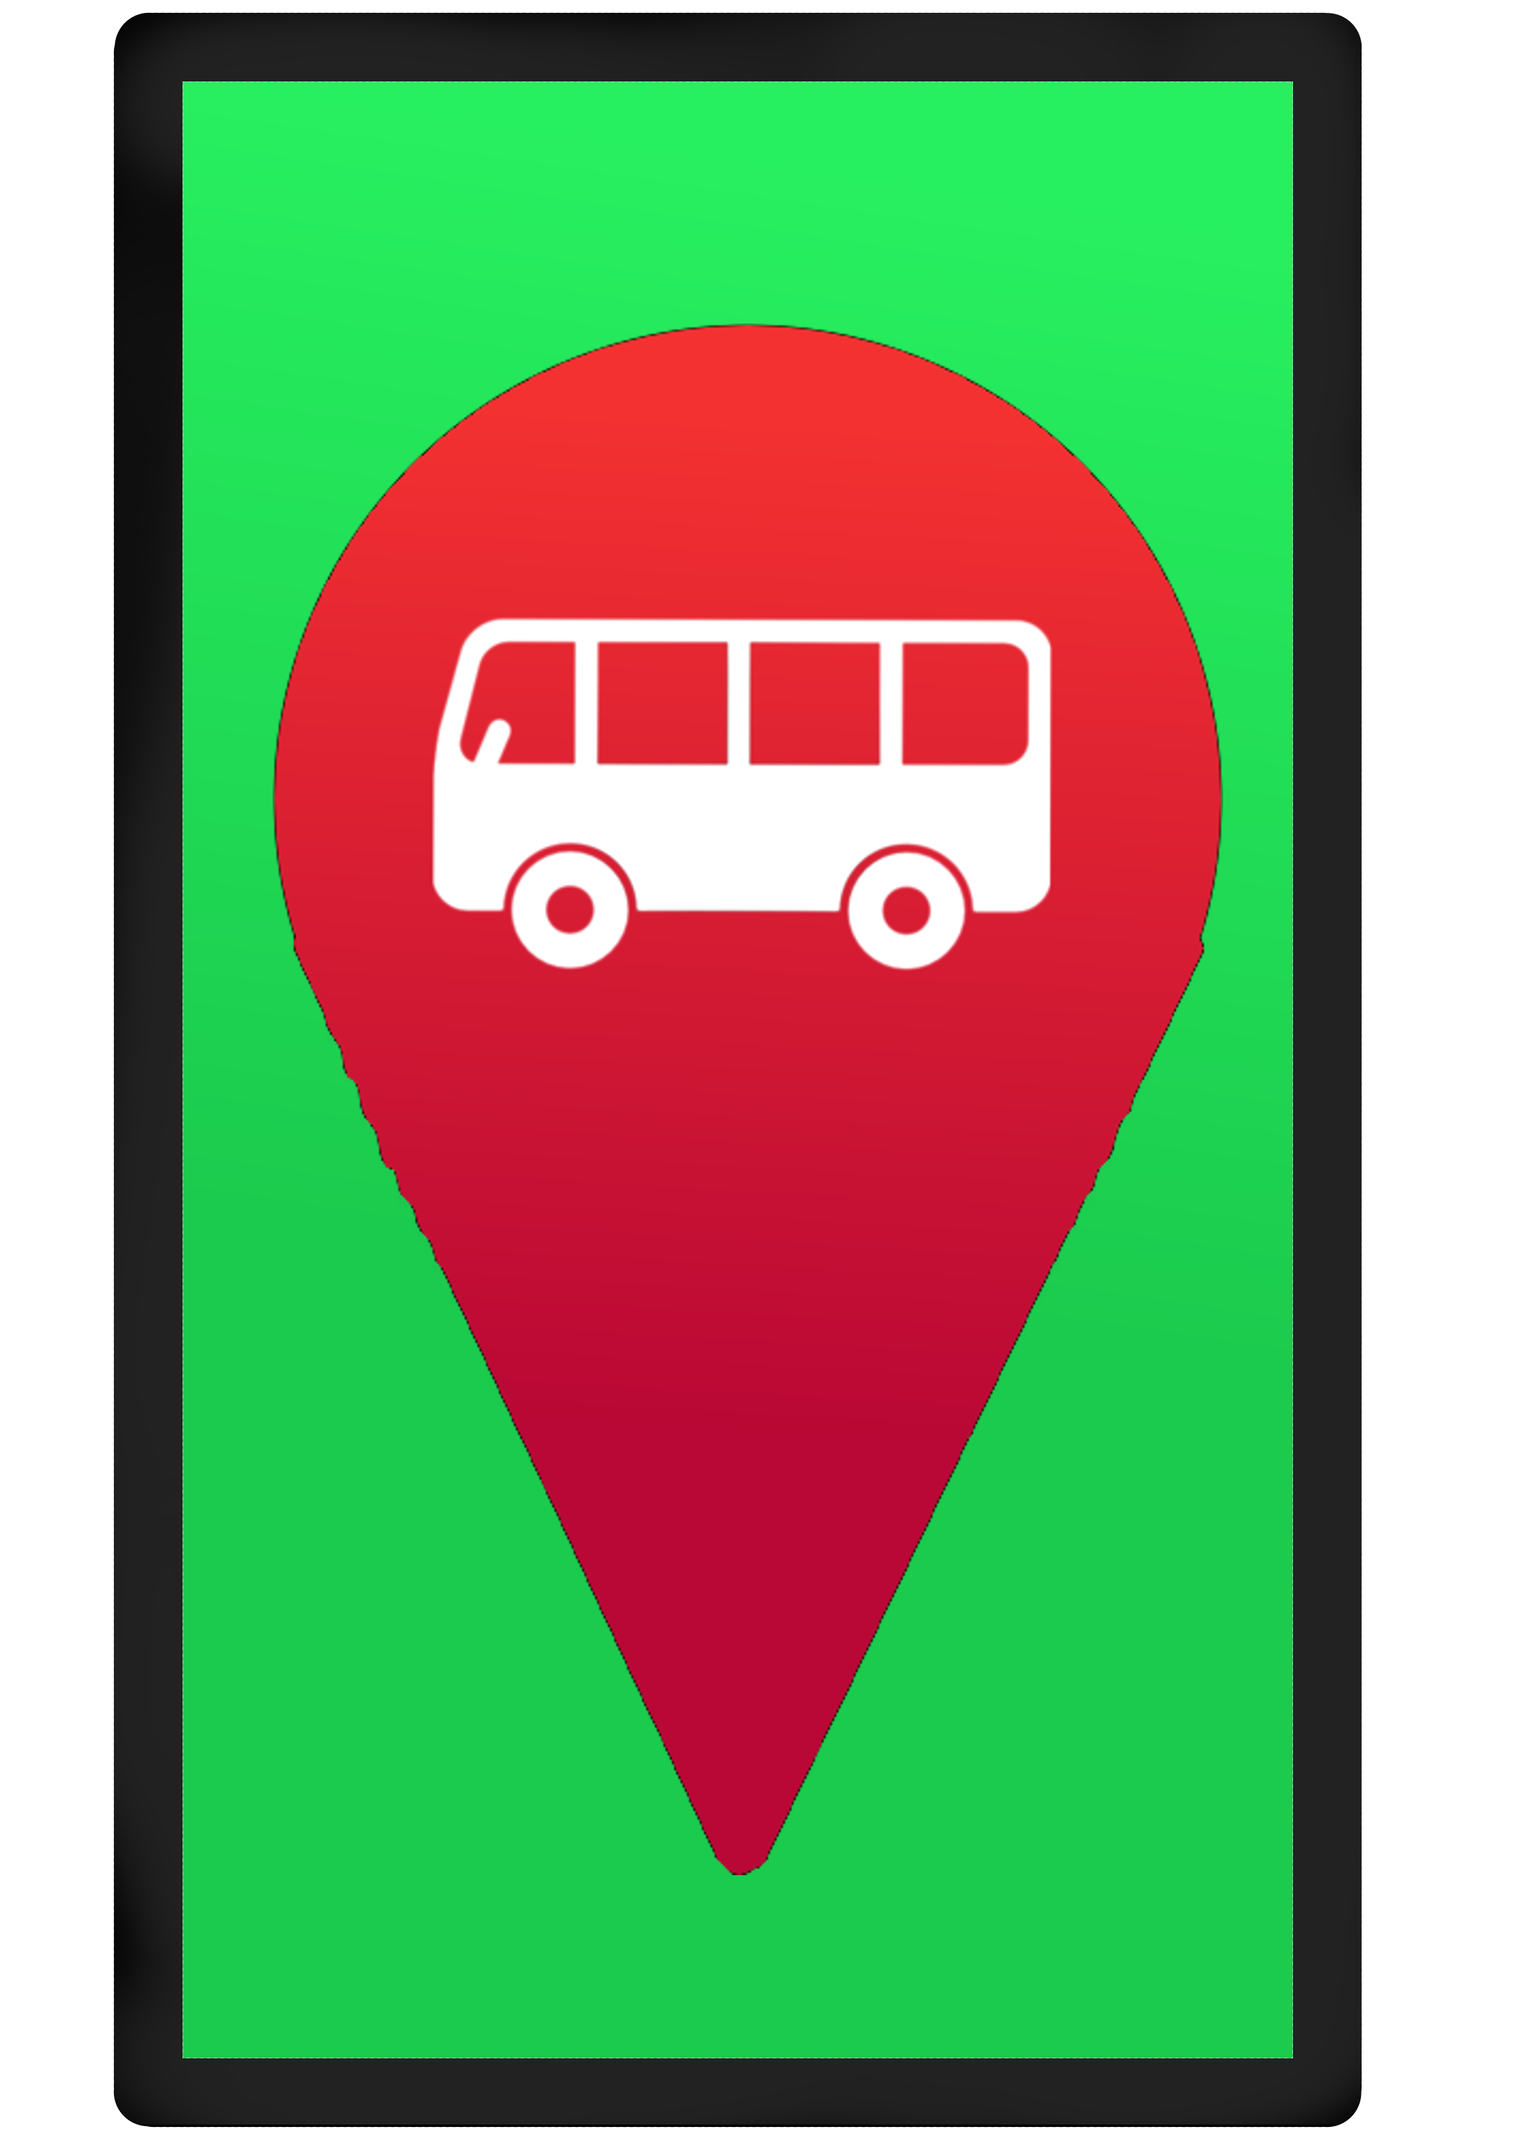
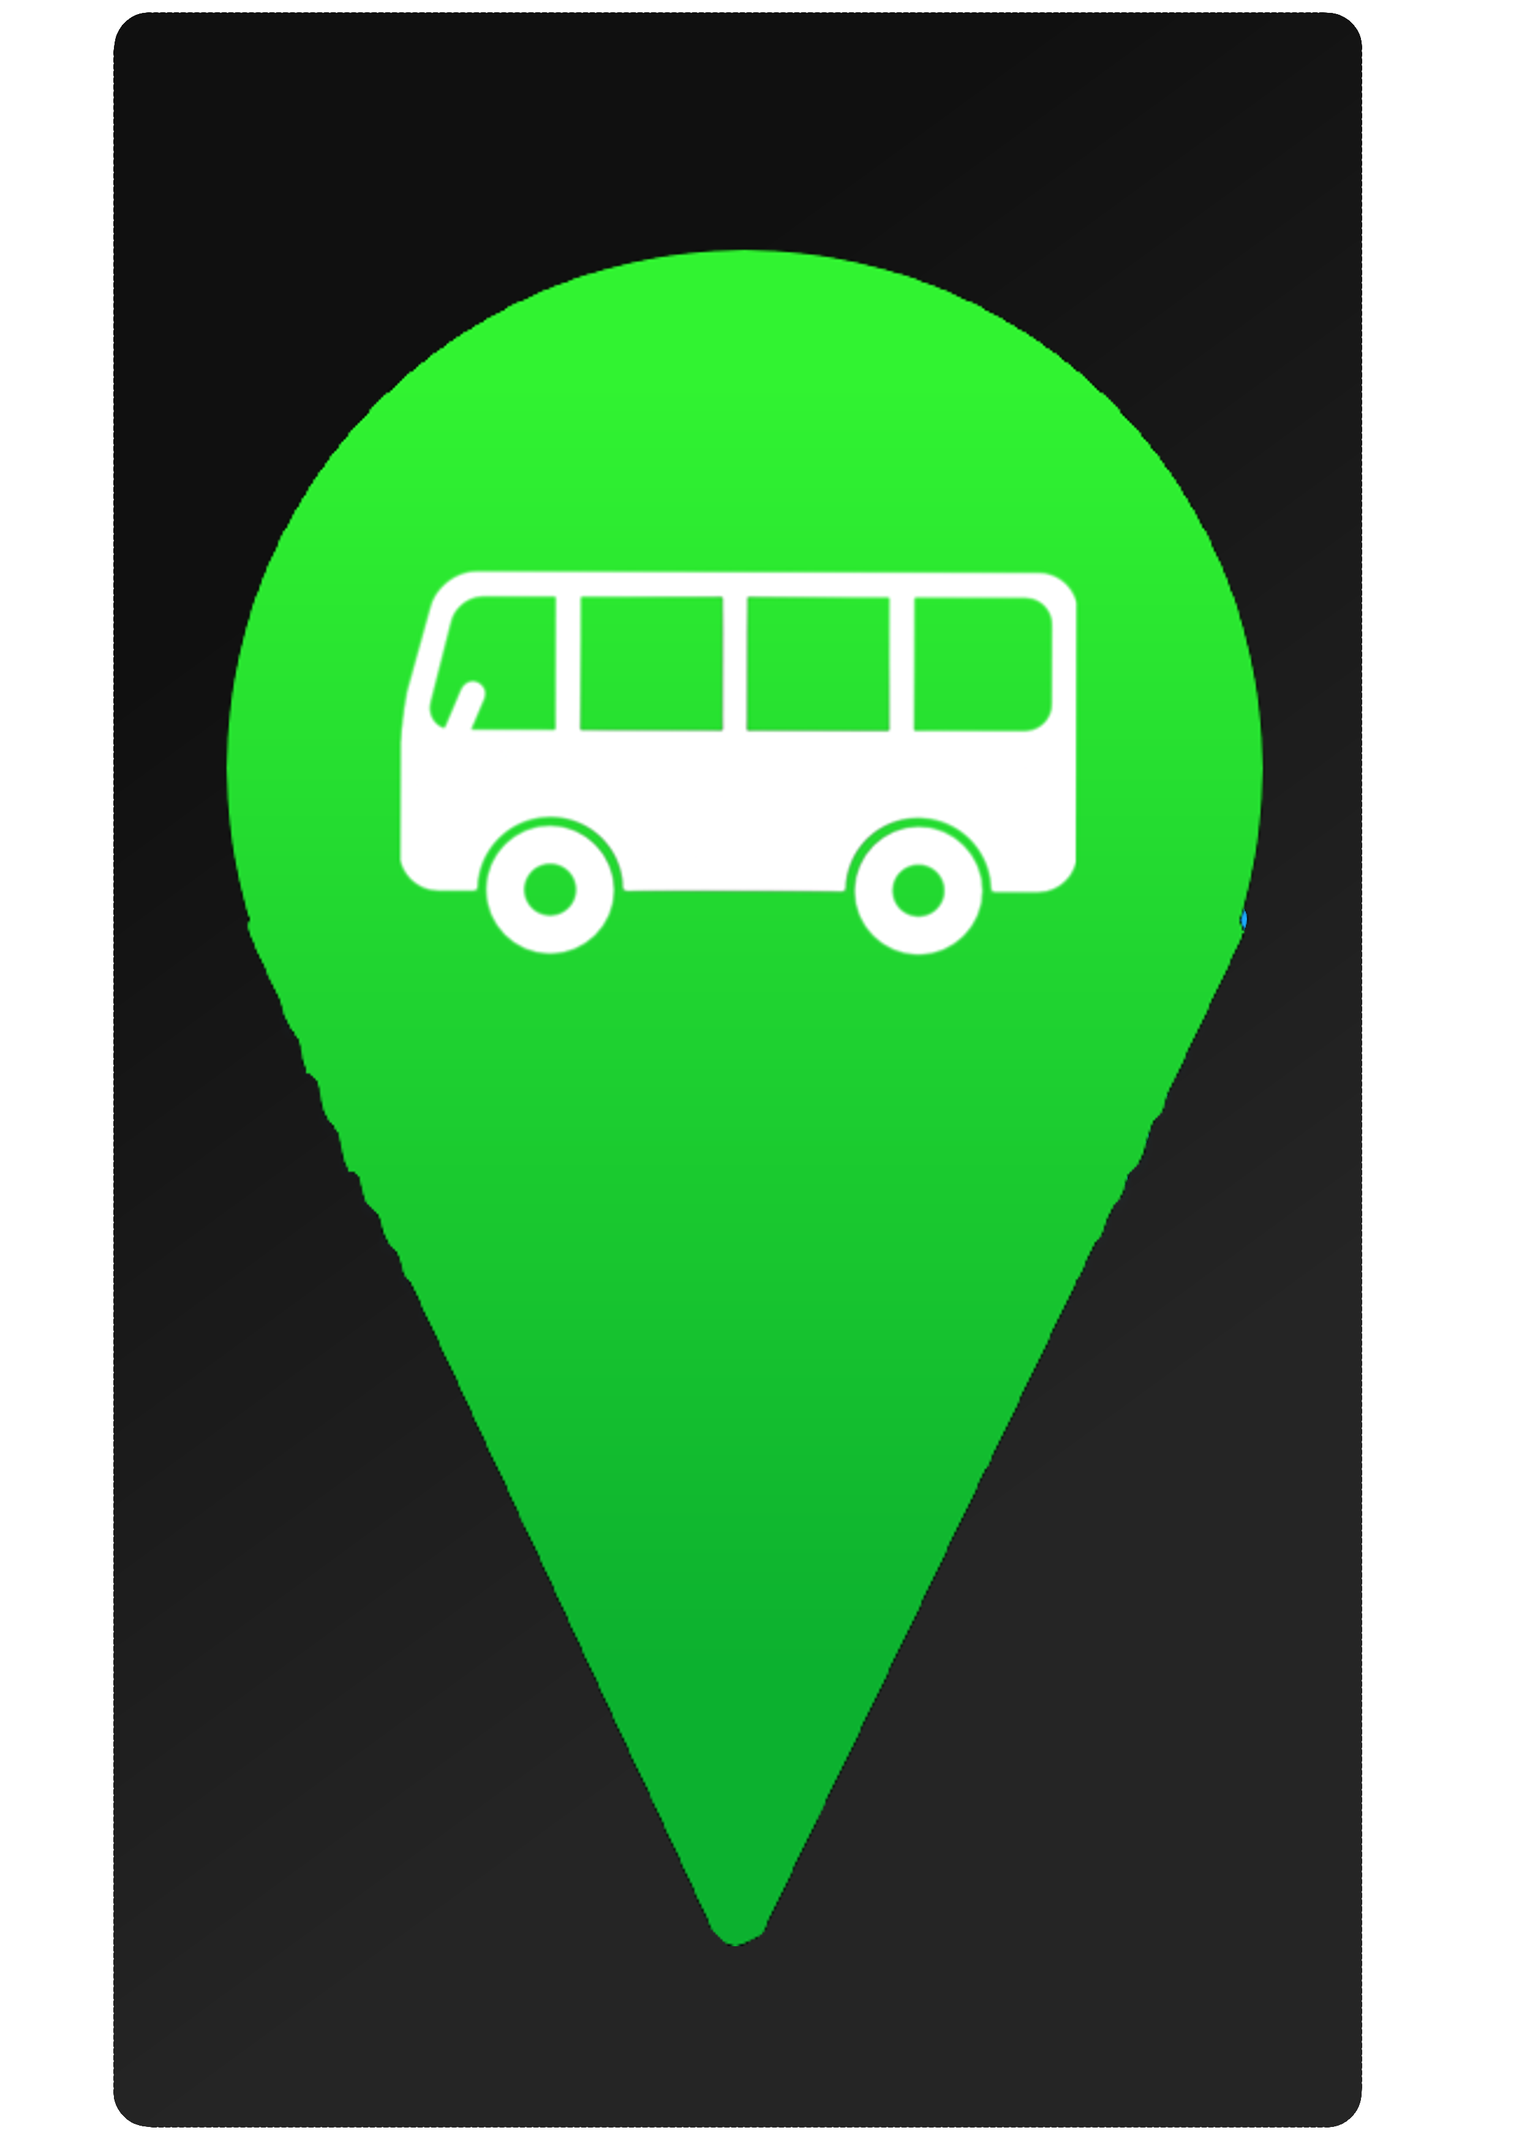
blue green theme

diff --git a/home/script.js b/home/script.js
@@ -38,9 +38,13 @@ let lightGreen = '#27f060'
 let greenColor = "#68F690"
 let darkerGreenColor = '#21C24F'
 
-let blueColor = '#3388FF'
+// let blueColor = '#3388FF'
+let blueColor = '#198CD4'
 let darkerBlueColor = '#075FDA'
 let redColor = '#ff2a2a'
+
+// green; #1EF738
+
 
 // governates coordinates; 
 
@@ -72,7 +76,7 @@ L.tileLayer('https://api.mapbox.com/styles/v1/{id}/tiles/{z}/{x}/{y}?access_toke
 
         });
         let redPin = L.icon({
-            iconUrl: "./imgs/red-pin-icon.png",
+            iconUrl: "./imgs/green-pin-icon.png",
             shadowSize: [50, 64], // size of the shadow
             shadowAnchor: [4, 62], // the same for the shadow
             iconSize: [25, 41],
@@ -80,8 +84,8 @@ L.tileLayer('https://api.mapbox.com/styles/v1/{id}/tiles/{z}/{x}/{y}?access_toke
             popupAnchor: [0, -30] 
         });
 
-        let sindibad25 = L.icon({
-            iconUrl: "./imgs/sindibad-icon.png",
+        let sindibad = L.icon({
+            iconUrl: "./imgs/sindibad-basic-icon.png",
             shadowSize: [50, 64], // size of the shadow
             shadowAnchor: [4, 62], // the same for the shadow
             iconSize: [70, 60],
@@ -116,8 +120,12 @@ document.querySelector('#registerBtn').addEventListener('click', (ev)=>{
     if(ev.target.parentElement.querySelector(".em").value.length > 0 &&ev.target.parentElement.querySelector(".em").value.length < 20 && ev.target.parentElement.querySelector(".pw").value.length > 0){
 
         console.log('make account')
+        document.querySelector('#greenMessage').style.display = 'block'
         createUserWithEmailAndPassword(bygreenAuth, ev.target.parentElement.querySelector(".em").value, ev.target.parentElement.querySelector(".pw").value).then(cred=>{
             console.log(cred)
+            setTimeout(() => {
+                document.querySelector('#greenMessage').style.display = 'none'
+            }, 2000);
         }).catch(err=>{
             console.log(err.message)
             document.querySelector('#errors').textContent = err.message
@@ -142,12 +150,19 @@ document.querySelector('#signinBtn').addEventListener('click', (ev)=>{
     // console.log(document.querySelector('#signinUsername').value.length >0)
 
     // send 
-    // if(document.querySelector('#signinUsername').value.length > 0 && document.querySelector('#signinPassword').value.length > 0){
+    if(document.querySelector('#signinUsername').value.length > 0 && document.querySelector('#signinPassword').value.length > 0){
+        document.querySelector('#greenMessage').style.display = 'block'
         console.log('make account')
-        signInWithEmailAndPassword(bygreenAuth, ev.target.parentElement.querySelector(".em").value ,ev.target.parentElement.querySelector(".pw").value)
-    // }else{
+        signInWithEmailAndPassword(bygreenAuth, ev.target.parentElement.querySelector(".em").value ,ev.target.parentElement.querySelector(".pw").value).then(()=>{
+            setTimeout(() => {
+                document.querySelector('#greenMessage').style.display = 'none'
+            }, 2000);
+    
+    
+        })
+    }else{
 
-    // }
+    }
     // empty 
     ev.target.parentElement.querySelector(".em").value = ''
     ev.target.parentElement.querySelector(".pw").value = ''
@@ -470,7 +485,7 @@ findMe.addEventListener('click', (ev)=>{
         .then(data=>{
             console.log('got online loc;', data)
             map.flyTo([data.latitude, data.longitude], 16)
-            myPin = L.marker([data.latitude, data.longitude], {icon: sindibad25}).addTo(map)
+            myPin = L.marker([data.latitude, data.longitude], {icon: sindibad}).addTo(map)
             myLoc = L.circle([data.latitude, data.longitude], {color: "red", radius: 100}).addTo(map)
 
             console.log(myPin, myLoc)
@@ -492,14 +507,20 @@ findMe.addEventListener('click', (ev)=>{
             myLat = pos.coords.latitude
             myLon = pos.coords.longitude
     
-            myPin = L.marker([pos.coords.latitude, pos.coords.longitude], {icon: sindibad25}).addTo(map)
+            myPin = L.marker([pos.coords.latitude, pos.coords.longitude], {icon: sindibad}).addTo(map)
             myLoc = L.circle([pos.coords.latitude, pos.coords.longitude], {color: "red", radius: 100}).addTo(map)
             
             // map.flyTo([pos.coords.latitude, pos.coords.longitude], 16)
     
             // setView([pos.coords.latitude, pos.coords.longitude])
         }, (err)=>{
-            console.log("allow this website to get your location, and enable gps")
+            console.log("not online, no")
+            document.querySelector('#redMessage').textContent = 'connect to internet to enable location detecting'
+            document.querySelector('#redMessage').style.display = 'block'
+            setTimeout(() => {
+                document.querySelector('#redMessage').style.display = 'none'
+            }, 2000);
+
             // alert('geolocation is not enabled')
             if(navigator.onLine){
         // no permisson case
@@ -740,7 +761,6 @@ findMe.addEventListener('click', (ev)=>{
         document.querySelector('#shopsCounter').textContent = docs.length
             })
 
-
         })
 
 
@@ -966,24 +986,6 @@ findMe.addEventListener('click', (ev)=>{
             currentPath = L.polyline(path, {color: 'red'}).addTo(map)
         })
 
-        //cancel route; fix later
-        // let cancelRoute = document.querySelector("#cancel-route")
-        // cancelRoute.addEventListener("click", () => {
-        //     //data 
-
-        //     path = []
-        //     map.removeLayer(currentPath)
-        //     currentPath = undefined
-        //     console.log(currentPath)
-
-        //     markers.forEach(e => map.removeLayer(e))
-        //     markers =[]
-        //     console.log(markers)
-
-        // })
-
-
-
     ////////////////////////sending 
 
         document.querySelector("#send").addEventListener("click", () => {
@@ -1037,28 +1039,18 @@ findMe.addEventListener('click', (ev)=>{
 
     ////////////////////////////functions
 
-    function getLocation() {
-        if (navigator.geolocation) {
-            navigator.geolocation.getCurrentPosition(showPosition);
-        } else {
-            console.log('Geolocation is not supported by this browser')
-        }
-        }
-
-    function showPosition(position) {
-            // map.setView([position.coords.latitude, position.coords.longitude], 16)
-            map.flyTo({lat: position.coords.latitude,lng: position.coords.longitude}, 16)
-        }
-        // getLocation()
-
-
     function deployRoutes(ev){
         Object.values(ev).forEach(async e => { 
 
             /////content 
             let voteBtns = document.createElement('div')
             let routeName = document.createElement('h3')
+            routeName.style.display= 'inline'
+            let nameDiv = document.createElement('div')
             e.name?routeName.textContent = e.name:routeName.textContent = 'اسم المسار' 
+            let checkImg = document.createElement('img')
+            checkImg.setAttribute('src', './imgs/general/check-icon.png')
+            checkImg.style.height = '1rem'
 
             // upvote btn
             let upvoteBtn = document.createElement("button")
@@ -1120,9 +1112,11 @@ findMe.addEventListener('click', (ev)=>{
             })
             sureDiv.append(sureBtn)
 
+            nameDiv.append(routeName)
+            confirmedRoutes.includes(e)?nameDiv.append(checkImg):null
 
             /////insert
-            voteBtns.append(routeName, upvoteBtn, downvoteBtn, sureDiv)
+            voteBtns.append(nameDiv, upvoteBtn, downvoteBtn, sureDiv)
                 let routeObject = L.polyline(e.path, {color: confirmedRoutes.includes(e)?lightGreen:greenColor}).bindPopup(voteBtns).addTo(map)
 
                 // routeObject.name = e.name
@@ -1146,9 +1140,9 @@ findMe.addEventListener('click', (ev)=>{
                     ////////mobile; change color 
                     routesObjects.forEach(e=>{e.setStyle({color: greenColor, opacity: .6})})
                     hoveredRoute?map.removeLayer(hoveredRoute):null
-                    hoveredRoute = L.polyline(ev.target._latlngs, {color: redColor, interactive: false})
+                    hoveredRoute = L.polyline(ev.target._latlngs, {color: blueColor, interactive: false})
                     hoveredRoute.addTo(map)
-                    hoveredRoute.setStyle({color:redColor, opacity: 1})
+                    hoveredRoute.setStyle({color:blueColor, opacity: 1})
 
 
                     if(dbUser){
@@ -1202,11 +1196,11 @@ findMe.addEventListener('click', (ev)=>{
                     hoveredend?map.removeLayer(hoveredend):null
 
 
-                    hoveredRoute = L.polyline(route.target._latlngs, {color:redColor, opacity: 1,interactive: false}).addTo(map)
+                    hoveredRoute = L.polyline(route.target._latlngs, {color:blueColor, opacity: 1,interactive: false}).addTo(map)
                     // console.log(route.target)
-                    route.target.start?hoveredstart = L.circle(route.target._latlngs[0],{radius:300 ,color:redColor, opacity: 1,interactive: false}).addTo(map):null
+                    route.target.start?hoveredstart = L.circle(route.target._latlngs[0],{radius:300 ,color:blueColor, opacity: 1,interactive: false}).addTo(map):null
 
-                    route.target.end?hoveredend = L.circle(route.target._latlngs[route.target._latlngs.length-1], {radius:300, color:redColor, opacity: 1,interactive: false}).addTo(map):null
+                    route.target.end?hoveredend = L.circle(route.target._latlngs[route.target._latlngs.length-1], {radius:300, color:blueColor, opacity: 1,interactive: false}).addTo(map):null
             })
 
             if(e.confirmed){
@@ -1299,21 +1293,17 @@ orderedteamElements = `${intendedOrder.map((account, index)=>{
 // console.log('intended order',intendedOrder)
 document.querySelector('#usersRanking').innerHTML = orderedUserElements.replaceAll(',', '')
 document.querySelector('#teamsRanking').innerHTML = orderedteamElements.replaceAll(',', '')
-}
-
-
+    }
 
         //////////// test code; 
 
-        window.onclick = (ev)=>{
+    window.onclick = (ev)=>{
             // console.log(ev.target, ev.target.style.zIndex, getComputedStyle(ev.target).zIndex)
             // console.log(routesObjects)
-        }
-
+    }
 
 
 // updateDoc(bygreenDb, collection())
-
 
     // getDocs(collection(bygreenDb, 'routes')).then((data)=>{
     //         let docs = []
@@ -1326,7 +1316,7 @@ document.querySelector('#teamsRanking').innerHTML = orderedteamElements.replaceA
     //             // updateDoc(doc(bygreenDb, 'routes', docu.id), {name: "اسم المسار"})
                 
     //         })
-    //     })
+//})
 
 
 

diff --git a/home/index.html b/home/index.html
@@ -161,8 +161,8 @@
 
         <!-- collect data; controllers -->
         <div id="controller">
-            <button class="box" id="addRouteMode"
-                style="background-image: url('./imgs/add-route-stroked-icon.png');background-color: #27f060;">
+            <button class="bbox" id="addRouteMode" background-image: linear-gradient(135deg, #000000, #161616); style="background-image:
+            url('./imgs/add-route-icon.png');background-color:#1a1a1a; color: white">
                 +
                 <!-- <img src="./imgs/add-route-icon.png" alt=""> -->
             </button>
@@ -295,7 +295,7 @@
 
         </select>
 
-        <button id="makeLocLink" class="box"><img src="./imgs/red-pin-icon.png" style="pointer-events:
+        <button id="makeLocLink" class="bbox"><img src="./imgs/green-glowing-pin.png" style="pointer-events:
         none;"></button>
 
         <button id="findMe" class="box"><img src="./imgs/general/aim-icon.png"></button>
@@ -393,12 +393,15 @@
 
             </div>
 
+
+            <!-- sindibad -->
+            <img src="./imgs/general/sindibad-goal.png" class="sindibadIcons">
         </div>
 
 
         <!-- leaderboard -->
         <div style="height: 100%; width: 100%; margin: auto; position: relative;">
-            <img src="./imgs/sindibad-icon2.png" id="leaderBoardImg">
+            <img src="./imgs/sindibad-basic-icon.png" id="leaderBoardImg">
 
             <div class="leaderBoard" style="height: 90%; width: 90%;">
 
@@ -581,6 +584,7 @@
                 <p style="line-height: 0;"> kadum.mo.jwad@gmail.com</p>
                 <p style="line-height: 0;">makeitgreen002@gmail.com</p>
 
+                <img src="./imgs/general/sindibad-contact.png" class="sindibadIcons">
             </div>
             <!-- 
             <div class="features" id="features">
@@ -679,6 +683,8 @@
                     <br>
 
                 </div>
+
+                <img src="./imgs/general/sindibad-results.png" class="sindibadIcons">
             </div>
 
             <a href="https://kadum2.github.io/injazat-3la-gd-el7al/">

diff --git a/home/style.css b/home/style.css
@@ -150,7 +150,8 @@ main{
 #addRouteMode{
     border: #1F2721 2px solid;
     z-index: 1003;
-    background-image: url('./imgs/addroute-form.png');
+    /* background: red; */
+    /* background-image: url('./imgs/addroute-form.png'); */
     background-repeat: no-repeat;
     font-size: 1.3rem;
     font-weight: bold;
@@ -426,6 +427,15 @@ footer{
     width: 100%;
 }
 
+
+.sindibadIcons{
+    height: 6rem;
+    width: 6rem;
+    position: absolute;
+    bottom: -3rem;
+    left: -3rem;
+}
+
 .contact, .statics, .features{
     display: flex;
     justify-content: space-around;
@@ -436,6 +446,7 @@ footer{
     transition: .1s linear;
     background: white;
     padding: 1rem;
+    position: relative;
 }
 
 .contact:hover, .features:hover, .statics:hover{
@@ -478,7 +489,7 @@ footer{
     color: red;
 }
 .statics img{
-    height: 1rem;
+    /* height: 1rem; */
 }
 .statics li{
     background: #C0F9D0;
@@ -493,7 +504,7 @@ footer{
     width: fit-content;
 }
 .features img{
-    height: 1rem;
+    /* height: 1rem; */
 }
 .features li b{
     color: red;
@@ -592,6 +603,18 @@ button{
     transition: .1s linear;
     cursor: pointer;
 }
+.bbox{
+    /* background-color: #27f060; */
+    /* background-image: linear-gradient(135deg,  #27f060, #22c751); */
+    /* background-image: linear-gradient(135deg,  #000000,  #161616); */
+    background-image: linear-gradient(135deg,  #1a1a1a,  #333333);
+
+
+    padding: .5rem;
+    border-radius: .5rem;
+    transition: .1s linear;
+    cursor: pointer;
+}
 .box img{
     /* height: 100%; */
 }
@@ -600,6 +623,13 @@ button{
     background-color: #33a353;
     border-radius: .7rem;
 }
+.bbox:hover{
+    background-color: #464646;
+    background-image: linear-gradient(135deg,  #141414,  #2e2e2e);
+
+    border-radius: .7rem;
+}
+
 .flex{
     display: flex;
     justify-content: center;
